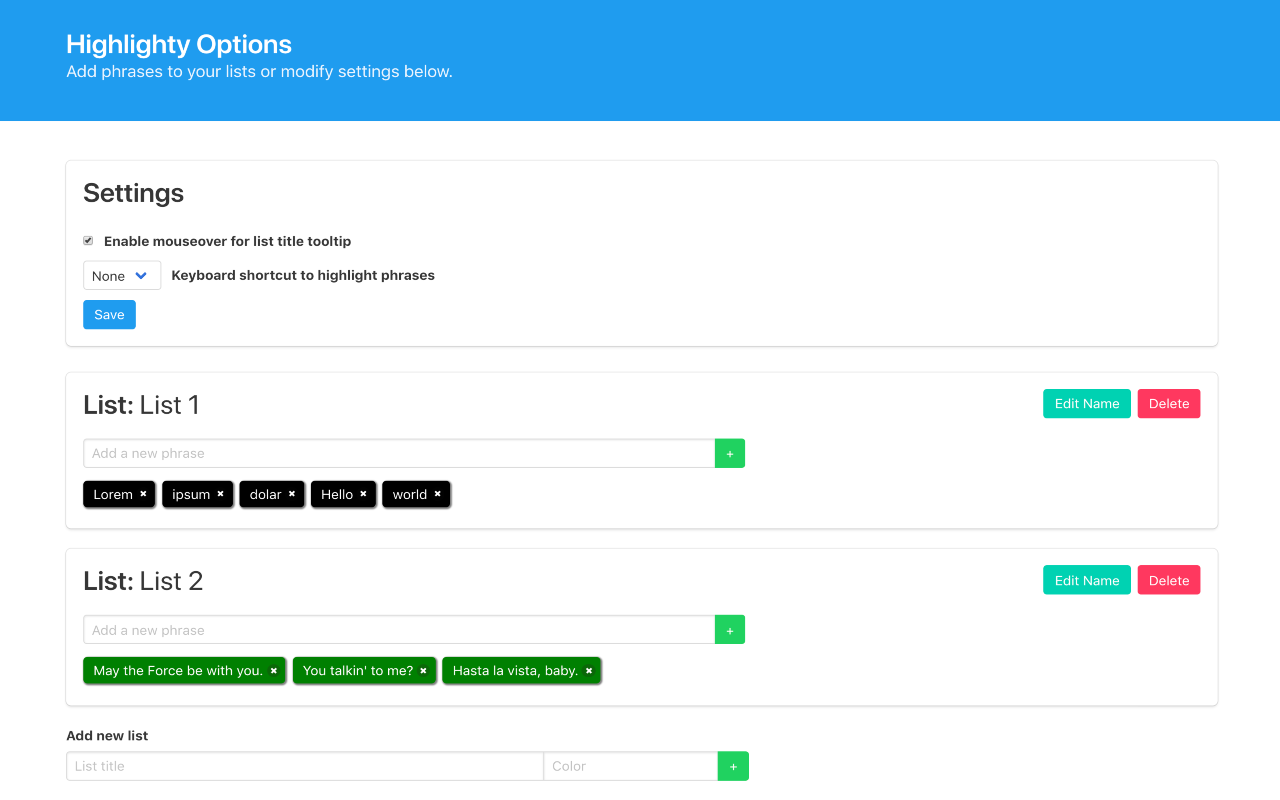
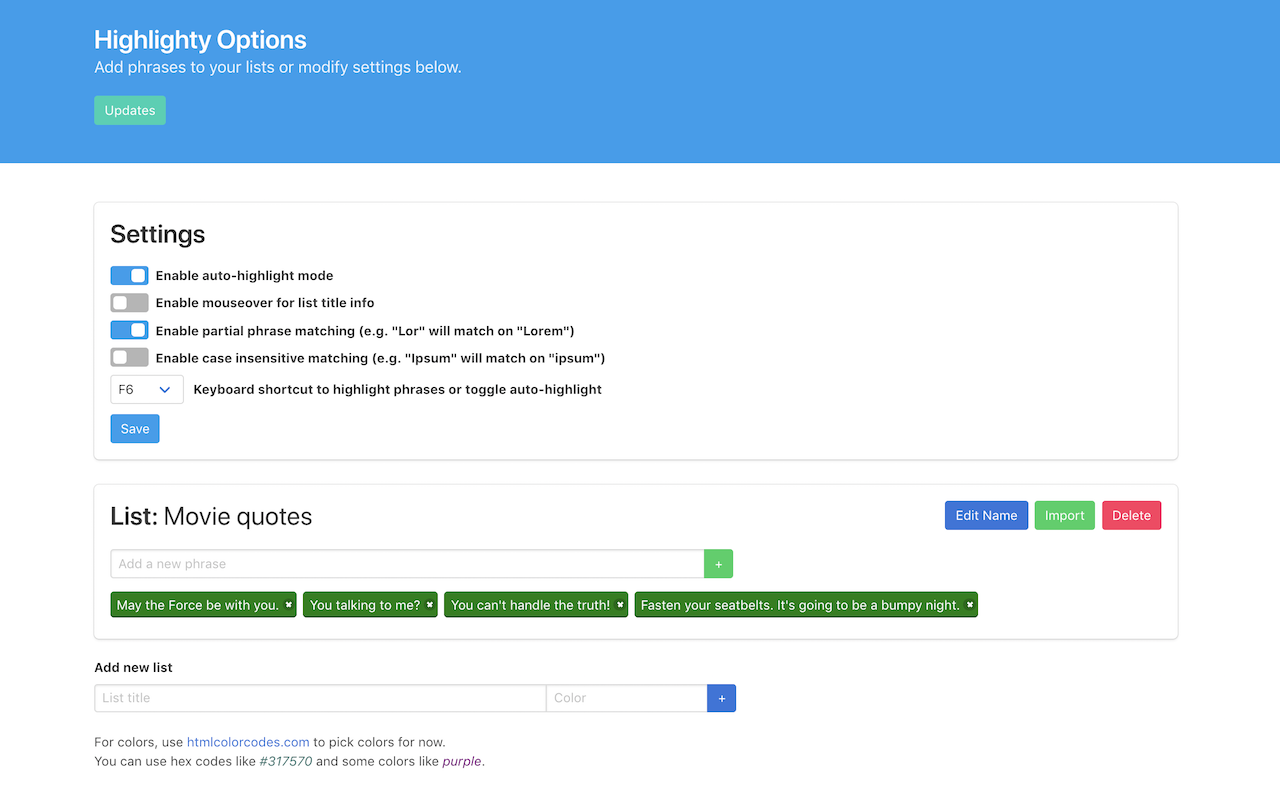
[1.0.4] Improved base style with inset shadow and spacing

diff --git a/src/background.js b/src/background.js
@@ -8,7 +8,7 @@ const defaultOptions = {
       color: "purple"
     }
   ],
-  baseStyles: "border-radius: 0.3rem; padding: 0.05rem; color: white; font-weight: normal; box-shadow: 1px 1px 1px 1px grey;",
+  baseStyles: "border-radius: 0.3rem; padding: 0.1rem; color: white; font-weight: normal; box-shadow: inset 0 -0.1rem 0 rgba(20,20,20,0.40)",
   autoHighlighter: true, /* If enableAutoHighlight, represents whether autoHighlighter is active */
   enableAutoHighlight: false,
   enableTitleMouseover: true,
@@ -52,7 +52,7 @@ chrome.browserAction.onClicked.addListener((tab) => {
 chrome.runtime.onMessage.addListener((request, sender) => {
   /*
     AutoHighlighter Mode:
-      Yellow - on
+      Green - on
       Red - blacklisted or not in whitelist? (TBD)
       Blue - off
     ManualHighlighter Mode:
@@ -63,7 +63,7 @@ chrome.runtime.onMessage.addListener((request, sender) => {
     setBrowserIcon((request.autoHighlighter) ? "Green" : "Blue");
   } else if ("manualHighlighter" in request) {
     let color = (request.manualHighlighter) ? "Yellow" : "Blue";
-    if ("tab" in request || request.tab) {
+    if ("tab" in request && request.tab) {
       setBrowserIcon(color, sender.tab.id);
     } else {
       setBrowserIcon(color);

diff --git a/src/updates.html b/src/updates.html
@@ -36,8 +36,9 @@
       <div class="container">
         <div class="box">
           <p>
-            <b>v1.0.4 - Oct ?, 2018:</b><br>
-            - Added new extension icons!
+            <b>v1.0.4 - Oct 7, 2018:</b><br>
+            - Added new extension icons!<br>
+            - Changed default style slightly with inset box-shadow
          </p>
         </div>
       </div>
